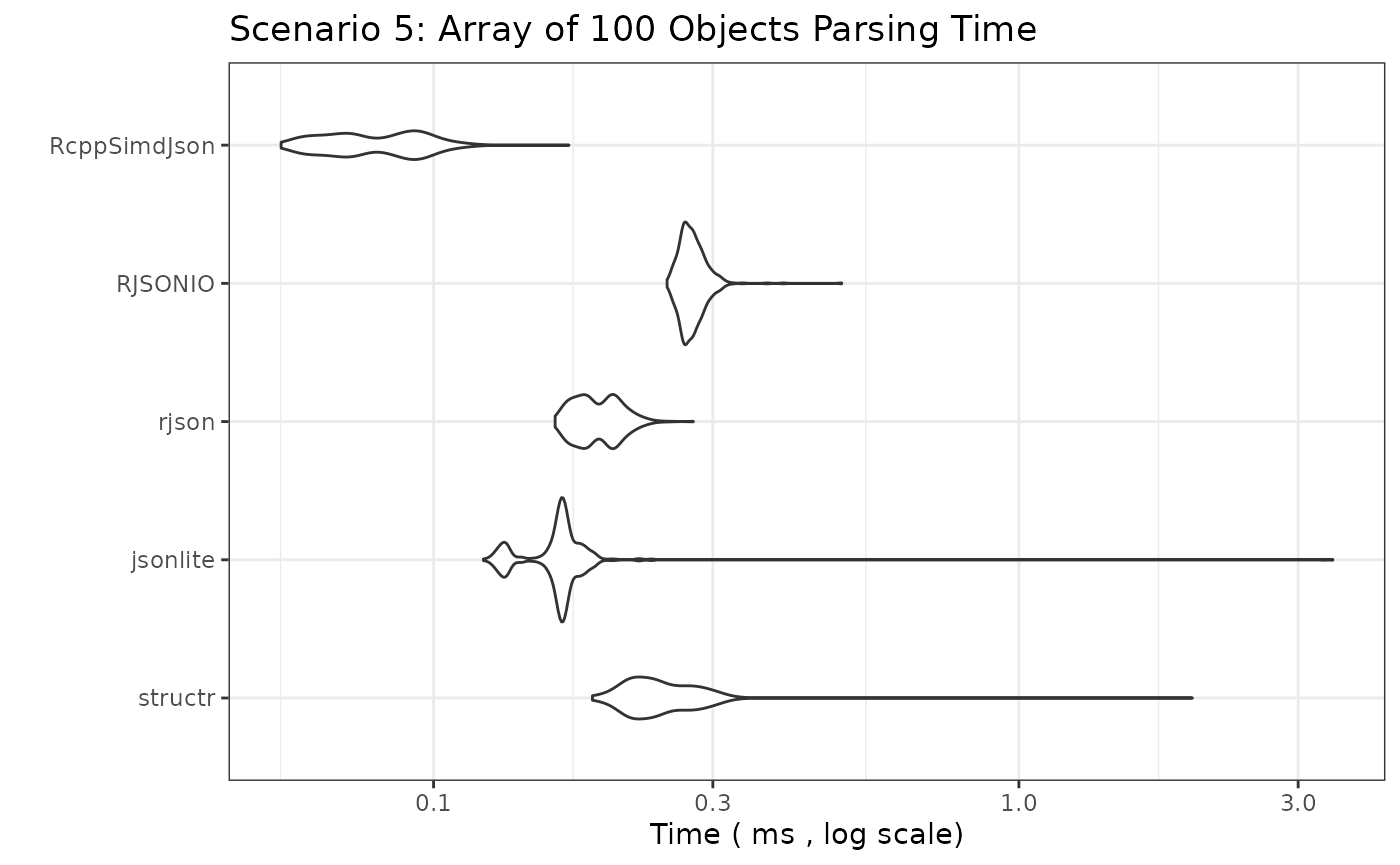
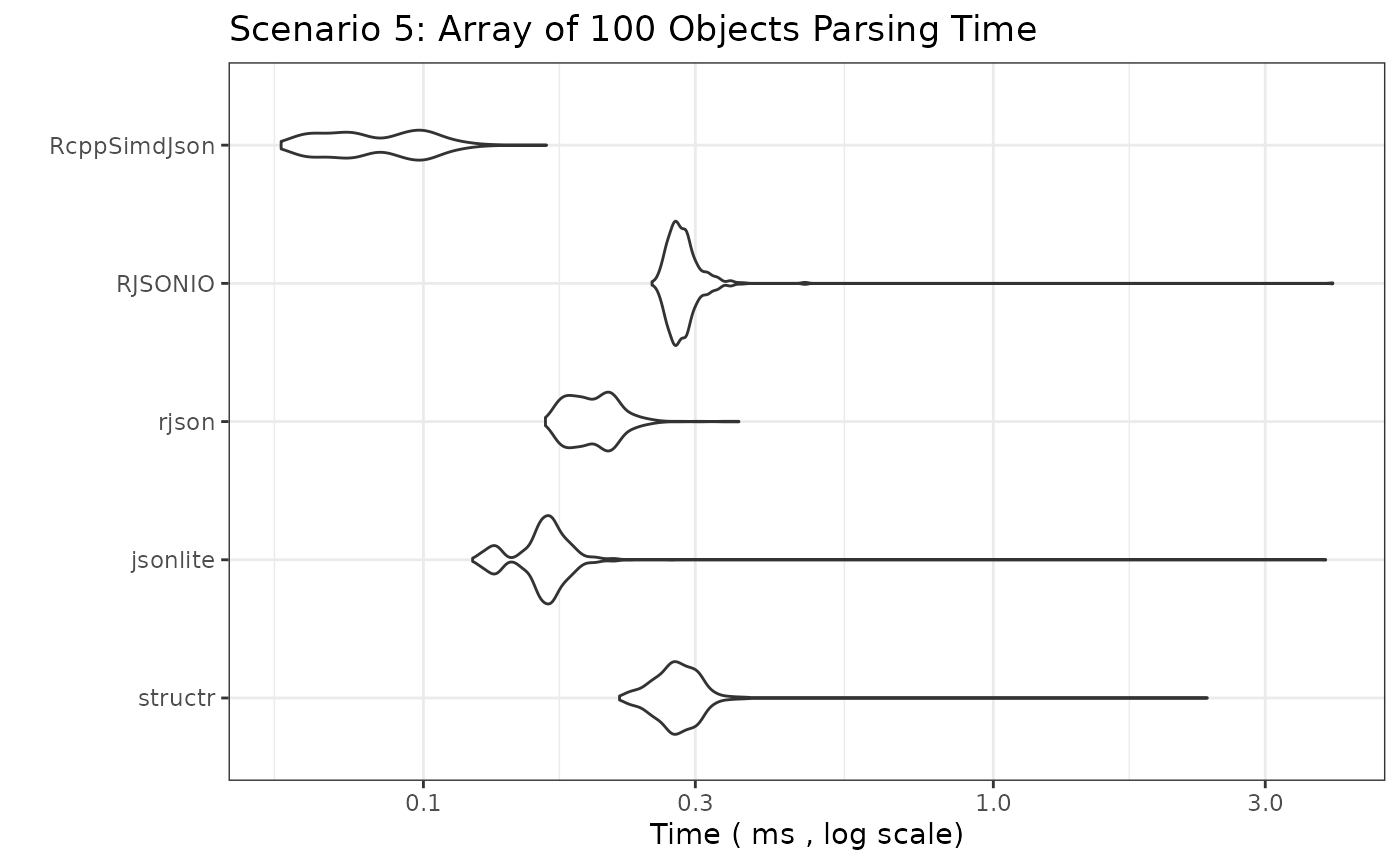
Deploying to gh-pages from @ ixpantia/structr@e697dd5653e07ecf1b09f64af888234e703a1cf2 🚀

diff --git a/articles/bench.html b/articles/bench.html
@@ -5,12 +5,12 @@
 <meta charset="utf-8">
 <meta http-equiv="X-UA-Compatible" content="IE=edge">
 <meta name="viewport" content="width=device-width, initial-scale=1, shrink-to-fit=no">
-<title>JSON Parsing Performance Benchmark: structr vs jsonlite vs rjson vs RJSONIO • structr</title>
+<title>JSON Parsing Performance Benchmark • structr</title>
 <script src="../deps/jquery-3.6.0/jquery-3.6.0.min.js"></script><meta name="viewport" content="width=device-width, initial-scale=1, shrink-to-fit=no">
 <link href="../deps/bootstrap-5.3.1/bootstrap.min.css" rel="stylesheet">
 <script src="../deps/bootstrap-5.3.1/bootstrap.bundle.min.js"></script><link href="../deps/font-awesome-6.5.2/css/all.min.css" rel="stylesheet">
 <link href="../deps/font-awesome-6.5.2/css/v4-shims.min.css" rel="stylesheet">
-<script src="../deps/headroom-0.11.0/headroom.min.js"></script><script src="../deps/headroom-0.11.0/jQuery.headroom.min.js"></script><script src="../deps/bootstrap-toc-1.0.1/bootstrap-toc.min.js"></script><script src="../deps/clipboard.js-2.0.11/clipboard.min.js"></script><script src="../deps/search-1.0.0/autocomplete.jquery.min.js"></script><script src="../deps/search-1.0.0/fuse.min.js"></script><script src="../deps/search-1.0.0/mark.min.js"></script><!-- pkgdown --><script src="../pkgdown.js"></script><meta property="og:title" content="JSON Parsing Performance Benchmark: structr vs jsonlite vs rjson vs RJSONIO">
+<script src="../deps/headroom-0.11.0/headroom.min.js"></script><script src="../deps/headroom-0.11.0/jQuery.headroom.min.js"></script><script src="../deps/bootstrap-toc-1.0.1/bootstrap-toc.min.js"></script><script src="../deps/clipboard.js-2.0.11/clipboard.min.js"></script><script src="../deps/search-1.0.0/autocomplete.jquery.min.js"></script><script src="../deps/search-1.0.0/fuse.min.js"></script><script src="../deps/search-1.0.0/mark.min.js"></script><!-- pkgdown --><script src="../pkgdown.js"></script><meta property="og:title" content="JSON Parsing Performance Benchmark">
 </head>
 <body>
     <a href="#main" class="visually-hidden-focusable">Skip to contents</a>
@@ -33,7 +33,7 @@
 <li class="active nav-item dropdown">
   <button class="nav-link dropdown-toggle" type="button" id="dropdown-articles" data-bs-toggle="dropdown" aria-expanded="false" aria-haspopup="true">Articles</button>
   <ul class="dropdown-menu" aria-labelledby="dropdown-articles">
-<li><a class="dropdown-item" href="../articles/bench.html">JSON Parsing Performance Benchmark: structr vs jsonlite vs rjson vs RJSONIO</a></li>
+<li><a class="dropdown-item" href="../articles/bench.html">JSON Parsing Performance Benchmark</a></li>
     <li><a class="dropdown-item" href="../articles/getting_started.html">Getting Started with structr</a></li>
   </ul>
 </li>
@@ -56,7 +56,7 @@
 <div class="row">
   <main id="main" class="col-md-9"><div class="page-header">
 
-      <h1>JSON Parsing Performance Benchmark: structr vs jsonlite vs rjson vs RJSONIO</h1>
+      <h1>JSON Parsing Performance Benchmark</h1>
             
             <h4 data-toc-skip class="date">2025-04-22</h4>
       
@@ -85,6 +85,10 @@ parser (implemented in C).</li>
 <li>
 <strong><code>RJSONIO</code></strong>: A versatile JSON parser,
 often used for interfacing with web APIs (implemented in C).</li>
+<li>
+<strong><code>RcppSimdJson</code></strong>: A high-performance JSON
+parser based on <code>simdjson</code>, which is known for its speed and
+efficiency (implemented in C++).</li>
 </ol>
 <p>The goal is to compare parsing speed across a wider range of JSON
 structures, from simple atomic values to large arrays and deeply nested
@@ -156,12 +160,12 @@ speed.</p>
 <span>  y_label <span class="op">=</span> <span class="fu"><a href="https://rdrr.io/r/base/paste.html" class="external-link">paste</a></span><span class="op">(</span><span class="st">"Time ("</span>, <span class="va">benchmark_unit_fast</span>, <span class="st">", log scale)"</span><span class="op">)</span></span>
 <span><span class="op">)</span></span></code></pre></div>
 <pre><code><span><span class="co">## Unit: microseconds</span></span>
-<span><span class="co">##          expr    min      lq      mean  median     uq      max neval</span></span>
-<span><span class="co">##       structr  4.849  7.6190  9.422481  9.5330 10.645   45.415  1000</span></span>
-<span><span class="co">##      jsonlite 42.108 50.4195 59.446336 54.1665 63.082 2504.012  1000</span></span>
-<span><span class="co">##         rjson 28.363 36.6380 41.959615 40.8660 45.365  125.514  1000</span></span>
-<span><span class="co">##       RJSONIO 33.754 43.0905 48.559685 47.4385 52.483  130.714  1000</span></span>
-<span><span class="co">##  RcppSimdJson 20.699 27.5915 31.973654 31.0880 34.825   72.656  1000</span></span></code></pre>
+<span><span class="co">##          expr    min     lq      mean  median      uq      max neval</span></span>
+<span><span class="co">##       structr  4.899  7.809  9.628398  9.5930 10.7100   57.898  1000</span></span>
+<span><span class="co">##      jsonlite 43.331 51.211 60.629954 55.3735 63.4885 2758.694  1000</span></span>
+<span><span class="co">##         rjson 29.044 37.645 43.226788 42.0590 46.6670  147.416  1000</span></span>
+<span><span class="co">##       RJSONIO 34.905 44.538 50.034030 49.1020 54.1660  149.560  1000</span></span>
+<span><span class="co">##  RcppSimdJson 21.050 28.148 32.695931 31.7000 35.4365   93.545  1000</span></span></code></pre>
 <p><img src="bench_files/figure-html/bm_simple_object-1.png" width="700" style="display: block; margin: auto;"></p>
 </div>
 <div class="section level3">
@@ -183,11 +187,11 @@ speed.</p>
 <span><span class="op">)</span></span></code></pre></div>
 <pre><code><span><span class="co">## Unit: microseconds</span></span>
 <span><span class="co">##          expr    min      lq      mean  median      uq      max neval</span></span>
-<span><span class="co">##       structr  3.858  5.9360  7.343874  7.5190  8.4955   29.666  1000</span></span>
-<span><span class="co">##      jsonlite 32.140 37.8610 41.336088 41.1770 43.4165   90.679  1000</span></span>
-<span><span class="co">##         rjson 31.549 37.1745 42.301518 42.7495 45.3295  128.670  1000</span></span>
-<span><span class="co">##       RJSONIO 45.054 52.3180 56.900786 56.1245 59.4660  146.433  1000</span></span>
-<span><span class="co">##  RcppSimdJson 21.049 25.5780 32.265662 29.5155 31.5130 3246.998  1000</span></span></code></pre>
+<span><span class="co">##       structr  3.877  6.1870  7.659723  7.7950  8.8420   31.128  1000</span></span>
+<span><span class="co">##      jsonlite 33.633 38.7225 42.436922 41.8735 44.5330   97.532  1000</span></span>
+<span><span class="co">##         rjson 32.301 38.2170 43.625715 43.6620 46.9825  139.471  1000</span></span>
+<span><span class="co">##       RJSONIO 46.066 53.9710 58.501977 57.9280 61.2650  153.337  1000</span></span>
+<span><span class="co">##  RcppSimdJson 21.600 26.0535 33.375351 30.0160 32.6760 3480.163  1000</span></span></code></pre>
 <p><img src="bench_files/figure-html/bm_simple_array_int-1.png" width="700" style="display: block; margin: auto;"></p>
 </div>
 <div class="section level3">
@@ -209,11 +213,11 @@ speed.</p>
 <span><span class="op">)</span></span></code></pre></div>
 <pre><code><span><span class="co">## Unit: microseconds</span></span>
 <span><span class="co">##          expr    min      lq      mean  median     uq      max neval</span></span>
-<span><span class="co">##       structr  4.278  6.3775  7.632164  7.6940  8.576   41.197  1000</span></span>
-<span><span class="co">##      jsonlite 25.868 30.6620 33.982399 33.9040 35.737   80.250  1000</span></span>
-<span><span class="co">##         rjson 30.187 36.1875 40.506223 40.3700 43.005  112.701  1000</span></span>
-<span><span class="co">##       RJSONIO 40.315 47.6690 51.992735 51.6115 54.547  159.368  1000</span></span>
-<span><span class="co">##  RcppSimdJson 21.480 26.4990 33.158860 29.8800 32.155 3274.850  1000</span></span></code></pre>
+<span><span class="co">##       structr  4.399  6.2265  7.521492  7.6540  8.536   35.897  1000</span></span>
+<span><span class="co">##      jsonlite 25.558 30.2165 33.778803 33.8280 35.987   84.788  1000</span></span>
+<span><span class="co">##         rjson 29.566 35.7620 40.131123 40.1450 42.925  122.750  1000</span></span>
+<span><span class="co">##       RJSONIO 41.127 48.2750 52.384849 52.0170 54.887  173.815  1000</span></span>
+<span><span class="co">##  RcppSimdJson 21.460 26.0340 33.232824 29.9265 32.381 3448.544  1000</span></span></code></pre>
 <p><img src="bench_files/figure-html/bm_simple_array_str-1.png" width="700" style="display: block; margin: auto;"></p>
 </div>
 <div class="section level3">
@@ -235,12 +239,12 @@ speed.</p>
 <span>  y_label <span class="op">=</span> <span class="fu"><a href="https://rdrr.io/r/base/paste.html" class="external-link">paste</a></span><span class="op">(</span><span class="st">"Time ("</span>, <span class="va">benchmark_unit_fast</span>, <span class="st">", log scale)"</span><span class="op">)</span></span>
 <span><span class="op">)</span></span></code></pre></div>
 <pre><code><span><span class="co">## Unit: microseconds</span></span>
-<span><span class="co">##          expr    min      lq     mean  median      uq      max neval</span></span>
-<span><span class="co">##       structr 16.842 21.8105 24.68554 24.9270 26.8450   74.359  1000</span></span>
-<span><span class="co">##      jsonlite 26.850 33.7585 37.88613 37.3300 39.6895   77.194  1000</span></span>
-<span><span class="co">##         rjson 41.187 49.6330 57.60227 55.0080 58.4890 2684.409  1000</span></span>
-<span><span class="co">##       RJSONIO 53.920 63.0730 68.26628 67.7160 71.5290  181.910  1000</span></span>
-<span><span class="co">##  RcppSimdJson 28.433 35.8370 41.16907 41.9885 44.8190  140.753  1000</span></span></code></pre>
+<span><span class="co">##          expr    min      lq     mean median      uq      max neval</span></span>
+<span><span class="co">##       structr 17.723 23.6090 26.62472 26.840 28.7335   66.956  1000</span></span>
+<span><span class="co">##      jsonlite 27.532 34.4195 38.32534 38.131 40.6160   72.846  1000</span></span>
+<span><span class="co">##         rjson 41.368 51.3910 59.87309 57.046 61.0140 2960.933  1000</span></span>
+<span><span class="co">##       RJSONIO 55.894 65.3470 71.26470 70.411 74.8000  183.853  1000</span></span>
+<span><span class="co">##  RcppSimdJson 30.026 37.4145 43.02510 43.577 46.7275  138.899  1000</span></span></code></pre>
 <p><img src="bench_files/figure-html/bm_nested_object-1.png" width="700" style="display: block; margin: auto;"></p>
 </div>
 <div class="section level3">
@@ -261,12 +265,12 @@ speed.</p>
 <span>  y_label <span class="op">=</span> <span class="fu"><a href="https://rdrr.io/r/base/paste.html" class="external-link">paste</a></span><span class="op">(</span><span class="st">"Time ("</span>, <span class="va">benchmark_unit_medium</span>, <span class="st">", log scale)"</span><span class="op">)</span></span>
 <span><span class="op">)</span></span></code></pre></div>
 <pre><code><span><span class="co">## Unit: milliseconds</span></span>
-<span><span class="co">##          expr      min        lq       mean    median        uq      max neval</span></span>
-<span><span class="co">##       structr 0.186819 0.2190285 0.24807508 0.2379135 0.2697985 1.979062   500</span></span>
-<span><span class="co">##      jsonlite 0.121667 0.1590020 0.17524477 0.1653830 0.1701625 3.438174   500</span></span>
-<span><span class="co">##         rjson 0.161311 0.1768850 0.19117243 0.1880410 0.2039860 0.277848   500</span></span>
-<span><span class="co">##       RJSONIO 0.250588 0.2672035 0.27745107 0.2750180 0.2843710 0.498089   500</span></span>
-<span><span class="co">##  RcppSimdJson 0.054892 0.0671105 0.08041215 0.0779105 0.0929835 0.170338   500</span></span></code></pre>
+<span><span class="co">##          expr      min       lq       mean    median        uq      max neval</span></span>
+<span><span class="co">##       structr 0.220863 0.262465 0.28311189 0.2778940 0.2957330 2.373445   500</span></span>
+<span><span class="co">##      jsonlite 0.122008 0.155716 0.16990592 0.1641965 0.1719865 3.829496   500</span></span>
+<span><span class="co">##         rjson 0.163736 0.182130 0.19942589 0.1974645 0.2129330 0.357728   500</span></span>
+<span><span class="co">##       RJSONIO 0.251840 0.273727 0.29330441 0.2817020 0.2923765 3.941244   500</span></span>
+<span><span class="co">##  RcppSimdJson 0.056276 0.068388 0.08353724 0.0792780 0.0983685 0.164498   500</span></span></code></pre>
 <p><img src="bench_files/figure-html/bm_array_of_objects-1.png" width="700" style="display: block; margin: auto;"></p>
 </div>
 <div class="section level3">
@@ -290,12 +294,12 @@ speed.</p>
 <span>  y_label <span class="op">=</span> <span class="fu"><a href="https://rdrr.io/r/base/paste.html" class="external-link">paste</a></span><span class="op">(</span><span class="st">"Time ("</span>, <span class="va">benchmark_unit_medium</span>, <span class="st">", log scale)"</span><span class="op">)</span></span>
 <span><span class="op">)</span></span></code></pre></div>
 <pre><code><span><span class="co">## Unit: milliseconds</span></span>
-<span><span class="co">##          expr      min       lq      mean   median        uq       max neval</span></span>
-<span><span class="co">##       structr 2.043933 2.344128 2.6231580 2.485572 2.6905650 10.364106   500</span></span>
-<span><span class="co">##      jsonlite 1.477657 1.515272 1.6477652 1.566838 1.6593205  7.979427   500</span></span>
-<span><span class="co">##         rjson 1.348205 1.399927 1.5441378 1.429472 1.5780140 12.913312   500</span></span>
-<span><span class="co">##       RJSONIO 2.001664 2.180779 2.3366398 2.212117 2.3817135  9.239458   500</span></span>
-<span><span class="co">##  RcppSimdJson 0.334003 0.355208 0.4231348 0.381261 0.4388085  0.789102   500</span></span></code></pre>
+<span><span class="co">##          expr      min       lq      mean    median       uq       max neval</span></span>
+<span><span class="co">##       structr 2.293346 2.686099 2.8983130 2.8235060 2.942598 11.211379   500</span></span>
+<span><span class="co">##      jsonlite 1.400567 1.525115 1.6415773 1.5875965 1.662892 14.252662   500</span></span>
+<span><span class="co">##         rjson 1.366173 1.447510 1.6089160 1.4946480 1.625222  7.215202   500</span></span>
+<span><span class="co">##       RJSONIO 2.011919 2.203883 2.4133237 2.2988805 2.438481  8.339573   500</span></span>
+<span><span class="co">##  RcppSimdJson 0.334455 0.369205 0.4461707 0.4081325 0.449094  1.024274   500</span></span></code></pre>
 <p><img src="bench_files/figure-html/bm_large_array_of_objects-1.png" width="700" style="display: block; margin: auto;"></p>
 </div>
 <div class="section level3">
@@ -318,12 +322,12 @@ speed.</p>
 <span>  y_label <span class="op">=</span> <span class="fu"><a href="https://rdrr.io/r/base/paste.html" class="external-link">paste</a></span><span class="op">(</span><span class="st">"Time ("</span>, <span class="va">benchmark_unit_medium</span>, <span class="st">", log scale)"</span><span class="op">)</span></span>
 <span><span class="op">)</span></span></code></pre></div>
 <pre><code><span><span class="co">## Unit: milliseconds</span></span>
-<span><span class="co">##          expr      min       lq      mean    median        uq       max neval</span></span>
-<span><span class="co">##       structr 0.188632 0.197464 0.2138257 0.2068615 0.2271990  0.386592   500</span></span>
-<span><span class="co">##      jsonlite 2.506897 2.798246 2.9705044 2.9020950 3.0131515  7.297494   500</span></span>
-<span><span class="co">##         rjson 1.048316 1.071244 1.1929075 1.0918020 1.1206310 11.028946   500</span></span>
-<span><span class="co">##       RJSONIO 2.523789 2.575199 2.6917944 2.6079655 2.6539060  7.368397   500</span></span>
-<span><span class="co">##  RcppSimdJson 0.190286 0.203595 0.2267920 0.2158120 0.2408995  0.437216   500</span></span></code></pre>
+<span><span class="co">##          expr      min       lq      mean   median        uq       max neval</span></span>
+<span><span class="co">##       structr 0.190216 0.203921 0.2218562 0.217721 0.2377895  0.446084   500</span></span>
+<span><span class="co">##      jsonlite 2.342447 2.721716 2.9307843 2.844640 3.0236150  7.780067   500</span></span>
+<span><span class="co">##         rjson 1.048729 1.085509 1.2326951 1.129927 1.1602330 12.456987   500</span></span>
+<span><span class="co">##       RJSONIO 2.547110 2.611460 2.7382284 2.651429 2.7046135  8.168213   500</span></span>
+<span><span class="co">##  RcppSimdJson 0.190907 0.211836 0.2429138 0.242268 0.2656915  0.401610   500</span></span></code></pre>
 <p><img src="bench_files/figure-html/bm_large_array_int-1.png" width="700" style="display: block; margin: auto;"></p>
 </div>
 <div class="section level3">
@@ -346,12 +350,12 @@ speed.</p>
 <span>  y_label <span class="op">=</span> <span class="fu"><a href="https://rdrr.io/r/base/paste.html" class="external-link">paste</a></span><span class="op">(</span><span class="st">"Time ("</span>, <span class="va">benchmark_unit_medium</span>, <span class="st">", log scale)"</span><span class="op">)</span></span>
 <span><span class="op">)</span></span></code></pre></div>
 <pre><code><span><span class="co">## Unit: milliseconds</span></span>
-<span><span class="co">##          expr      min        lq      mean    median        uq       max neval</span></span>
-<span><span class="co">##       structr 0.678626 0.6956880 0.7223176 0.7090730 0.7349565  1.159103   500</span></span>
-<span><span class="co">##      jsonlite 2.289291 2.4676540 2.6974454 2.5757005 2.7597735  7.695878   500</span></span>
-<span><span class="co">##         rjson 1.325052 1.3474135 1.4661859 1.3808210 1.4170140  6.198885   500</span></span>
-<span><span class="co">##       RJSONIO 3.488258 3.5509645 3.7268805 3.5803650 3.6383885 11.805405   500</span></span>
-<span><span class="co">##  RcppSimdJson 0.643941 0.6644395 0.6964286 0.6854695 0.7138470  1.274668   500</span></span></code></pre>
+<span><span class="co">##          expr      min       lq      mean    median       uq       max neval</span></span>
+<span><span class="co">##       structr 0.679089 0.702042 0.7294717 0.7214035 0.752056  1.057065   500</span></span>
+<span><span class="co">##      jsonlite 2.285100 2.474328 2.7454330 2.5779725 2.818137  7.696802   500</span></span>
+<span><span class="co">##         rjson 1.315969 1.375144 1.4844561 1.4189110 1.457429  6.430927   500</span></span>
+<span><span class="co">##       RJSONIO 3.490122 3.567095 3.7466009 3.6169640 3.679866 12.904934   500</span></span>
+<span><span class="co">##  RcppSimdJson 0.637051 0.663029 0.7010752 0.6992670 0.725330  1.130963   500</span></span></code></pre>
 <p><img src="bench_files/figure-html/bm_large_array_str-1.png" width="700" style="display: block; margin: auto;"></p>
 </div>
 <div class="section level3">
@@ -373,12 +377,12 @@ speed.</p>
 <span>  y_label <span class="op">=</span> <span class="fu"><a href="https://rdrr.io/r/base/paste.html" class="external-link">paste</a></span><span class="op">(</span><span class="st">"Time ("</span>, <span class="va">benchmark_unit_fast</span>, <span class="st">", log scale)"</span><span class="op">)</span></span>
 <span><span class="op">)</span></span></code></pre></div>
 <pre><code><span><span class="co">## Unit: microseconds</span></span>
-<span><span class="co">##          expr    min      lq     mean  median     uq      max neval</span></span>
-<span><span class="co">##       structr 12.753 15.2480 17.38108 17.4425 18.680   71.222  1000</span></span>
-<span><span class="co">##      jsonlite 16.691 19.9275 22.66625 22.8025 24.320   73.517  1000</span></span>
-<span><span class="co">##         rjson 29.124 35.2410 39.74102 39.8245 42.229  109.625  1000</span></span>
-<span><span class="co">##       RJSONIO 37.590 44.2175 52.55501 48.1050 51.020 4149.321  1000</span></span>
-<span><span class="co">##  RcppSimdJson 23.243 27.5920 31.12438 31.6390 33.523   69.259  1000</span></span></code></pre>
+<span><span class="co">##          expr    min      lq     mean  median      uq      max neval</span></span>
+<span><span class="co">##       structr 12.944 16.1500 18.05234 18.0390 19.4060   47.058  1000</span></span>
+<span><span class="co">##      jsonlite 16.932 20.4780 23.32355 23.2740 24.7810  106.660  1000</span></span>
+<span><span class="co">##         rjson 30.397 36.5585 45.36166 41.4020 44.0980 4452.169  1000</span></span>
+<span><span class="co">##       RJSONIO 38.632 46.2320 50.65506 50.3390 53.2545  168.665  1000</span></span>
+<span><span class="co">##  RcppSimdJson 23.824 28.5890 32.62929 32.5905 34.9250   89.517  1000</span></span></code></pre>
 <p><img src="bench_files/figure-html/bm_deep_nest-1.png" width="700" style="display: block; margin: auto;"></p>
 </div>
 <div class="section level3">
@@ -401,11 +405,11 @@ speed.</p>
 <span><span class="op">)</span></span></code></pre></div>
 <pre><code><span><span class="co">## Unit: milliseconds</span></span>
 <span><span class="co">##          expr      min        lq       mean    median        uq      max neval</span></span>
-<span><span class="co">##       structr 0.057858 0.0666995 0.07124966 0.0704220 0.0737730 0.120435   500</span></span>
-<span><span class="co">##      jsonlite 0.040656 0.0498175 0.05448382 0.0533945 0.0565510 0.120666   500</span></span>
-<span><span class="co">##         rjson 0.062897 0.0715740 0.07865277 0.0776890 0.0830295 0.147235   500</span></span>
-<span><span class="co">##       RJSONIO 0.082184 0.0905490 0.10806506 0.0962500 0.1022060 5.207927   500</span></span>
-<span><span class="co">##  RcppSimdJson 0.033142 0.0403755 0.04628871 0.0459810 0.0505695 0.109204   500</span></span></code></pre>
+<span><span class="co">##       structr 0.062557 0.0702865 0.07548090 0.0747400 0.0781960 0.127528   500</span></span>
+<span><span class="co">##      jsonlite 0.040625 0.0518020 0.05606523 0.0555130 0.0583345 0.143819   500</span></span>
+<span><span class="co">##         rjson 0.063379 0.0729510 0.08044549 0.0796340 0.0847485 0.160290   500</span></span>
+<span><span class="co">##       RJSONIO 0.083536 0.0931790 0.11212560 0.0993555 0.1058075 5.373411   500</span></span>
+<span><span class="co">##  RcppSimdJson 0.033582 0.0409810 0.04792000 0.0473690 0.0522420 0.121878   500</span></span></code></pre>
 <p><img src="bench_files/figure-html/bm_wide_object-1.png" width="700" style="display: block; margin: auto;"></p>
 </div>
 </div>
@@ -420,6 +424,8 @@ relative performance. We convert all times to microseconds
 <div class="section level2">
 <h2 id="conclusion">Conclusion<a class="anchor" aria-label="anchor" href="#conclusion"></a>
 </h2>
+<p><code>structr</code> competes well with every other JSON parsing
+library will the added benefit of schema validation during parsing.</p>
 </div>
   </main><aside class="col-md-3"><nav id="toc" aria-label="Table of contents"><h2>On this page</h2>
     </nav></aside>

diff --git a/reference/s_vector.html b/reference/s_vector.html
@@ -22,7 +22,7 @@ s_map() or finalized by build_structure()."></head><body>
       <ul class="navbar-nav me-auto"><li class="active nav-item"><a class="nav-link" href="../reference/index.html">Reference</a></li>
 <li class="nav-item dropdown">
   <button class="nav-link dropdown-toggle" type="button" id="dropdown-articles" data-bs-toggle="dropdown" aria-expanded="false" aria-haspopup="true">Articles</button>
-  <ul class="dropdown-menu" aria-labelledby="dropdown-articles"><li><a class="dropdown-item" href="../articles/bench.html">JSON Parsing Performance Benchmark: structr vs jsonlite vs rjson vs RJSONIO</a></li>
+  <ul class="dropdown-menu" aria-labelledby="dropdown-articles"><li><a class="dropdown-item" href="../articles/bench.html">JSON Parsing Performance Benchmark</a></li>
     <li><a class="dropdown-item" href="../articles/getting_started.html">Getting Started with structr</a></li>
   </ul></li>
       </ul><ul class="navbar-nav"><li class="nav-item"><form class="form-inline" role="search">
@@ -85,13 +85,13 @@ vector. This should be the result of another <code>s_*</code> function call (e.g
 <span class="r-out co"><span class="r-pr">#&gt;</span> Vector(</span>
 <span class="r-out co"><span class="r-pr">#&gt;</span>     Map {</span>
 <span class="r-out co"><span class="r-pr">#&gt;</span>         fields: {</span>
-<span class="r-out co"><span class="r-pr">#&gt;</span>             "name": String,</span>
 <span class="r-out co"><span class="r-pr">#&gt;</span>             "id": Integer,</span>
+<span class="r-out co"><span class="r-pr">#&gt;</span>             "name": String,</span>
 <span class="r-out co"><span class="r-pr">#&gt;</span>         },</span>
 <span class="r-out co"><span class="r-pr">#&gt;</span>         ignore_extra_fields: false,</span>
 <span class="r-out co"><span class="r-pr">#&gt;</span>         expected_fields_str: [</span>
-<span class="r-out co"><span class="r-pr">#&gt;</span>             "name",</span>
 <span class="r-out co"><span class="r-pr">#&gt;</span>             "id",</span>
+<span class="r-out co"><span class="r-pr">#&gt;</span>             "name",</span>
 <span class="r-out co"><span class="r-pr">#&gt;</span>         ],</span>
 <span class="r-out co"><span class="r-pr">#&gt;</span>     },</span>
 <span class="r-out co"><span class="r-pr">#&gt;</span> )</span>

diff --git a/articles/getting_started.html b/articles/getting_started.html
@@ -33,7 +33,7 @@
 <li class="active nav-item dropdown">
   <button class="nav-link dropdown-toggle" type="button" id="dropdown-articles" data-bs-toggle="dropdown" aria-expanded="false" aria-haspopup="true">Articles</button>
   <ul class="dropdown-menu" aria-labelledby="dropdown-articles">
-<li><a class="dropdown-item" href="../articles/bench.html">JSON Parsing Performance Benchmark: structr vs jsonlite vs rjson vs RJSONIO</a></li>
+<li><a class="dropdown-item" href="../articles/bench.html">JSON Parsing Performance Benchmark</a></li>
     <li><a class="dropdown-item" href="../articles/getting_started.html">Getting Started with structr</a></li>
   </ul>
 </li>
@@ -229,7 +229,7 @@ throws an informative error.</p>
 <span><span class="st">}'</span></span>
 <span><span class="kw"><a href="https://rdrr.io/r/base/try.html" class="external-link">try</a></span><span class="op">(</span><span class="fu"><a href="../reference/parse_json.html">parse_json</a></span><span class="op">(</span><span class="va">json_extra_field</span>, <span class="va">user_structure</span><span class="op">)</span><span class="op">)</span></span>
 <span><span class="co">#&gt; Error in parse_json(json_extra_field, user_structure) : </span></span>
-<span><span class="co">#&gt;   Serde("unknown field `email`, expected one of `id`, `username`, `is_active`") at character 0</span></span>
+<span><span class="co">#&gt;   Serde("unknown field `email`, expected one of `username`, `is_active`, `id`") at character 0</span></span>
 <span></span>
 <span><span class="co"># Error: Invalid JSON syntax</span></span>
 <span><span class="va">json_syntax_error</span> <span class="op">&lt;-</span> <span class="st">'{ "id": 1 '</span> <span class="co"># Missing closing brace</span></span>

diff --git a/articles/index.html b/articles/index.html
@@ -18,7 +18,7 @@
       <ul class="navbar-nav me-auto"><li class="nav-item"><a class="nav-link" href="../reference/index.html">Reference</a></li>
 <li class="nav-item dropdown">
   <button class="nav-link dropdown-toggle" type="button" id="dropdown-articles" data-bs-toggle="dropdown" aria-expanded="false" aria-haspopup="true">Articles</button>
-  <ul class="dropdown-menu" aria-labelledby="dropdown-articles"><li><a class="dropdown-item" href="../articles/bench.html">JSON Parsing Performance Benchmark: structr vs jsonlite vs rjson vs RJSONIO</a></li>
+  <ul class="dropdown-menu" aria-labelledby="dropdown-articles"><li><a class="dropdown-item" href="../articles/bench.html">JSON Parsing Performance Benchmark</a></li>
     <li><a class="dropdown-item" href="../articles/getting_started.html">Getting Started with structr</a></li>
   </ul></li>
       </ul><ul class="navbar-nav"><li class="nav-item"><form class="form-inline" role="search">
@@ -39,7 +39,7 @@
       <h3>All vignettes</h3>
       <div class="section-desc"></div>
 
-      <dl><dt><a href="bench.html">JSON Parsing Performance Benchmark: structr vs jsonlite vs rjson vs RJSONIO</a></dt>
+      <dl><dt><a href="bench.html">JSON Parsing Performance Benchmark</a></dt>
         <dd>
         </dd><dt><a href="getting_started.html">Getting Started with structr</a></dt>
         <dd>

diff --git a/reference/parse_json.html b/reference/parse_json.html
@@ -20,7 +20,7 @@ Returns an R object reflecting the JSON content if valid, or throws a detailed e
       <ul class="navbar-nav me-auto"><li class="active nav-item"><a class="nav-link" href="../reference/index.html">Reference</a></li>
 <li class="nav-item dropdown">
   <button class="nav-link dropdown-toggle" type="button" id="dropdown-articles" data-bs-toggle="dropdown" aria-expanded="false" aria-haspopup="true">Articles</button>
-  <ul class="dropdown-menu" aria-labelledby="dropdown-articles"><li><a class="dropdown-item" href="../articles/bench.html">JSON Parsing Performance Benchmark: structr vs jsonlite vs rjson vs RJSONIO</a></li>
+  <ul class="dropdown-menu" aria-labelledby="dropdown-articles"><li><a class="dropdown-item" href="../articles/bench.html">JSON Parsing Performance Benchmark</a></li>
     <li><a class="dropdown-item" href="../articles/getting_started.html">Getting Started with structr</a></li>
   </ul></li>
       </ul><ul class="navbar-nav"><li class="nav-item"><form class="form-inline" role="search">

diff --git a/reference/s_map.html b/reference/s_map.html
@@ -20,7 +20,7 @@ defined using an s_* function (e.g., s_string(), s_integer(), or nested structur
       <ul class="navbar-nav me-auto"><li class="active nav-item"><a class="nav-link" href="../reference/index.html">Reference</a></li>
 <li class="nav-item dropdown">
   <button class="nav-link dropdown-toggle" type="button" id="dropdown-articles" data-bs-toggle="dropdown" aria-expanded="false" aria-haspopup="true">Articles</button>
-  <ul class="dropdown-menu" aria-labelledby="dropdown-articles"><li><a class="dropdown-item" href="../articles/bench.html">JSON Parsing Performance Benchmark: structr vs jsonlite vs rjson vs RJSONIO</a></li>
+  <ul class="dropdown-menu" aria-labelledby="dropdown-articles"><li><a class="dropdown-item" href="../articles/bench.html">JSON Parsing Performance Benchmark</a></li>
     <li><a class="dropdown-item" href="../articles/getting_started.html">Getting Started with structr</a></li>
   </ul></li>
       </ul><ul class="navbar-nav"><li class="nav-item"><form class="form-inline" role="search">

diff --git a/reference/s_date.html b/reference/s_date.html
@@ -20,7 +20,7 @@ within s_map() to define fields that should contain date values."></head><body>
       <ul class="navbar-nav me-auto"><li class="active nav-item"><a class="nav-link" href="../reference/index.html">Reference</a></li>
 <li class="nav-item dropdown">
   <button class="nav-link dropdown-toggle" type="button" id="dropdown-articles" data-bs-toggle="dropdown" aria-expanded="false" aria-haspopup="true">Articles</button>
-  <ul class="dropdown-menu" aria-labelledby="dropdown-articles"><li><a class="dropdown-item" href="../articles/bench.html">JSON Parsing Performance Benchmark: structr vs jsonlite vs rjson vs RJSONIO</a></li>
+  <ul class="dropdown-menu" aria-labelledby="dropdown-articles"><li><a class="dropdown-item" href="../articles/bench.html">JSON Parsing Performance Benchmark</a></li>
     <li><a class="dropdown-item" href="../articles/getting_started.html">Getting Started with structr</a></li>
   </ul></li>
       </ul><ul class="navbar-nav"><li class="nav-item"><form class="form-inline" role="search">

diff --git a/reference/structure_atomics.html b/reference/structure_atomics.html
@@ -22,7 +22,7 @@ s_vector() or s_map() and finalized by build_structure()."></head><body>
       <ul class="navbar-nav me-auto"><li class="active nav-item"><a class="nav-link" href="../reference/index.html">Reference</a></li>
 <li class="nav-item dropdown">
   <button class="nav-link dropdown-toggle" type="button" id="dropdown-articles" data-bs-toggle="dropdown" aria-expanded="false" aria-haspopup="true">Articles</button>
-  <ul class="dropdown-menu" aria-labelledby="dropdown-articles"><li><a class="dropdown-item" href="../articles/bench.html">JSON Parsing Performance Benchmark: structr vs jsonlite vs rjson vs RJSONIO</a></li>
+  <ul class="dropdown-menu" aria-labelledby="dropdown-articles"><li><a class="dropdown-item" href="../articles/bench.html">JSON Parsing Performance Benchmark</a></li>
     <li><a class="dropdown-item" href="../articles/getting_started.html">Getting Started with structr</a></li>
   </ul></li>
       </ul><ul class="navbar-nav"><li class="nav-item"><form class="form-inline" role="search">

diff --git a/reference/build_structure.html b/reference/build_structure.html
@@ -22,7 +22,7 @@ representation required by the parse_json() function."></head><body>
       <ul class="navbar-nav me-auto"><li class="active nav-item"><a class="nav-link" href="../reference/index.html">Reference</a></li>
 <li class="nav-item dropdown">
   <button class="nav-link dropdown-toggle" type="button" id="dropdown-articles" data-bs-toggle="dropdown" aria-expanded="false" aria-haspopup="true">Articles</button>
-  <ul class="dropdown-menu" aria-labelledby="dropdown-articles"><li><a class="dropdown-item" href="../articles/bench.html">JSON Parsing Performance Benchmark: structr vs jsonlite vs rjson vs RJSONIO</a></li>
+  <ul class="dropdown-menu" aria-labelledby="dropdown-articles"><li><a class="dropdown-item" href="../articles/bench.html">JSON Parsing Performance Benchmark</a></li>
     <li><a class="dropdown-item" href="../articles/getting_started.html">Getting Started with structr</a></li>
   </ul></li>
       </ul><ul class="navbar-nav"><li class="nav-item"><form class="form-inline" role="search">

diff --git a/reference/s_optional.html b/reference/s_optional.html
@@ -24,7 +24,7 @@ value."></head><body>
       <ul class="navbar-nav me-auto"><li class="active nav-item"><a class="nav-link" href="../reference/index.html">Reference</a></li>
 <li class="nav-item dropdown">
   <button class="nav-link dropdown-toggle" type="button" id="dropdown-articles" data-bs-toggle="dropdown" aria-expanded="false" aria-haspopup="true">Articles</button>
-  <ul class="dropdown-menu" aria-labelledby="dropdown-articles"><li><a class="dropdown-item" href="../articles/bench.html">JSON Parsing Performance Benchmark: structr vs jsonlite vs rjson vs RJSONIO</a></li>
+  <ul class="dropdown-menu" aria-labelledby="dropdown-articles"><li><a class="dropdown-item" href="../articles/bench.html">JSON Parsing Performance Benchmark</a></li>
     <li><a class="dropdown-item" href="../articles/getting_started.html">Getting Started with structr</a></li>
   </ul></li>
       </ul><ul class="navbar-nav"><li class="nav-item"><form class="form-inline" role="search">

diff --git a/reference/index.html b/reference/index.html
@@ -18,7 +18,7 @@
       <ul class="navbar-nav me-auto"><li class="active nav-item"><a class="nav-link" href="../reference/index.html">Reference</a></li>
 <li class="nav-item dropdown">
   <button class="nav-link dropdown-toggle" type="button" id="dropdown-articles" data-bs-toggle="dropdown" aria-expanded="false" aria-haspopup="true">Articles</button>
-  <ul class="dropdown-menu" aria-labelledby="dropdown-articles"><li><a class="dropdown-item" href="../articles/bench.html">JSON Parsing Performance Benchmark: structr vs jsonlite vs rjson vs RJSONIO</a></li>
+  <ul class="dropdown-menu" aria-labelledby="dropdown-articles"><li><a class="dropdown-item" href="../articles/bench.html">JSON Parsing Performance Benchmark</a></li>
     <li><a class="dropdown-item" href="../articles/getting_started.html">Getting Started with structr</a></li>
   </ul></li>
       </ul><ul class="navbar-nav"><li class="nav-item"><form class="form-inline" role="search">

diff --git a/LICENSE-text.html b/LICENSE-text.html
@@ -18,7 +18,7 @@
       <ul class="navbar-nav me-auto"><li class="nav-item"><a class="nav-link" href="reference/index.html">Reference</a></li>
 <li class="nav-item dropdown">
   <button class="nav-link dropdown-toggle" type="button" id="dropdown-articles" data-bs-toggle="dropdown" aria-expanded="false" aria-haspopup="true">Articles</button>
-  <ul class="dropdown-menu" aria-labelledby="dropdown-articles"><li><a class="dropdown-item" href="articles/bench.html">JSON Parsing Performance Benchmark: structr vs jsonlite vs rjson vs RJSONIO</a></li>
+  <ul class="dropdown-menu" aria-labelledby="dropdown-articles"><li><a class="dropdown-item" href="articles/bench.html">JSON Parsing Performance Benchmark</a></li>
     <li><a class="dropdown-item" href="articles/getting_started.html">Getting Started with structr</a></li>
   </ul></li>
       </ul><ul class="navbar-nav"><li class="nav-item"><form class="form-inline" role="search">
